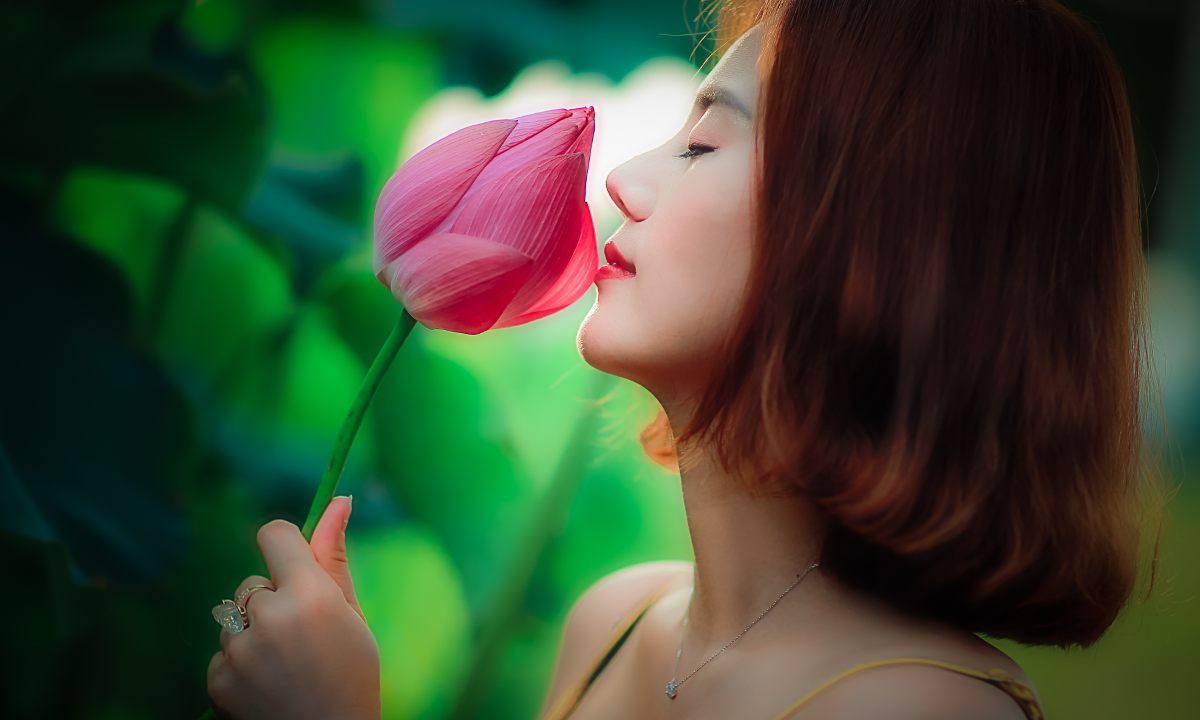
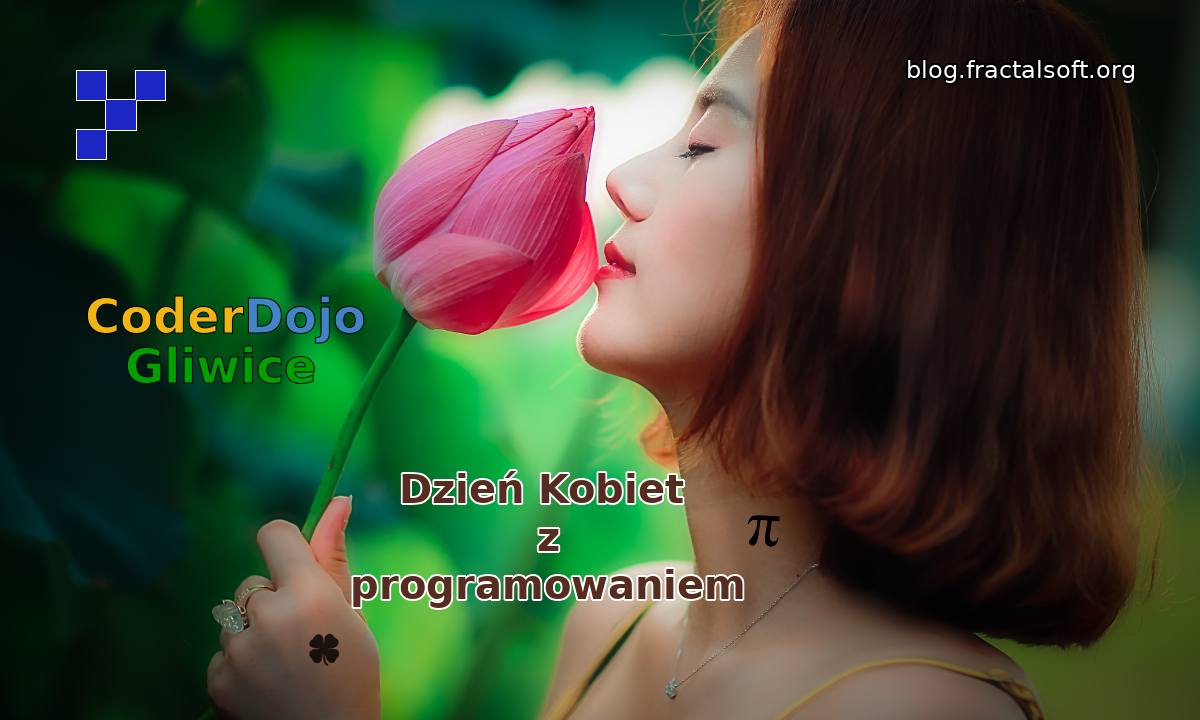
Update image and article about CoderDojo Gliwice (2020-03)

diff --git a/pl/coderdojo/gliwice/2020/_posts/2020-03-06-programowanie-dla-dzieci-na-dzien-kobiet.md b/pl/coderdojo/gliwice/2020/_posts/2020-03-06-programowanie-dla-dzieci-na-dzien-kobiet.md
@@ -60,8 +60,8 @@ Dokładnie miesiąc po Walentynkach, 14 marca, w Japonii
 🇯🇵
 wypada święto o nazwie Biały Dzień.
 W kulturze japońskiej jest ono silnie powiązane z Walentynkami.
-W Japoni przyjęło się, że 14 lutego to mężczyźni wręczają słodycze kobietom.
-Za to właśnie w Biały Dzień kobiety odwdzięczają się mężczyznom.
+W Japoni przyjęło się, że 14 lutego to kobiety wręczają słodycze mężczyznom.
+Za to właśnie w Biały Dzień mężczyźni odwdzięczają się kobietom.
 🍭
 
 
@@ -102,9 +102,41 @@ Przyjdź, zobacz, spróbuj, programuj i zostań z nami!
 {: .text-justify}
 Nasze plany są proste, ale ambitne.
 Co będziemy robić:
-+ {: .text-justify} Udoskonalimy grę 🎮 z poprzednich zajęć. Tak, zgadza się. Będziemy programować gry, czyli to co część z Was lubi najbardziej. 🐯
-+ {: .text-justify} Policzymy liczbę PI. 🧮 Pokażemy kilka różnych sposobów. Może π zafascynuje Was tak jak nas. 🤩
-+ {: .text-justify} Nauczymy się nowych rzeczy. 🍱
++ {: .text-justify} Udoskonalimy grę
+  🎮
+  z poprzednich zajęć.
+  Tak, zgadza się.
+  Będziemy programować gry, czyli to co część z Was lubi najbardziej.
+  🐯
++ {: .text-justify} Policzymy liczbę PI.
+  🧮
+  Pokażemy kilka różnych sposobów.
+  Może π zafascynuje Was tak jak nas.
+  🤩
++ {: .text-justify} Nauczymy się nowych rzeczy.
+  🍱
+
+
+{: .text-justify}
+Zajęcia poprowadzą nasi kochani
+❤
+mentorzy CoderDojo.
+Najlepsi z najlepszych.
+W skrócie, dużo GADA:
++ {: .text-justify} **G**rzesiek - miłośnik i znawca gier.
+  👾
+  Przygotowuje dla świata małą, mobilną niespodziankę.
+  📱
++ {: .text-justify} **A**gnieszka - pasjonatka matematyki i programowania.
+  🤔
+  Pomaga dziewczynkom i kobietom wejść do świata IT.
++ {: .text-justify} **D**arek - fan nauczania maszynowego i robotów.
+  🤖
+  W prosty sposób wytłumaczy najtrudniejsze zagadnienia.
++ {: .text-justify} **A**lek - koneser algorytmów i przyjaciel Linuksa.
+  🐧
+  Niedługo rusza z kursem dla młodych programistów i programistek ninja.
+  ⚔
 
 
 ## Przygotowanie do zajęć
